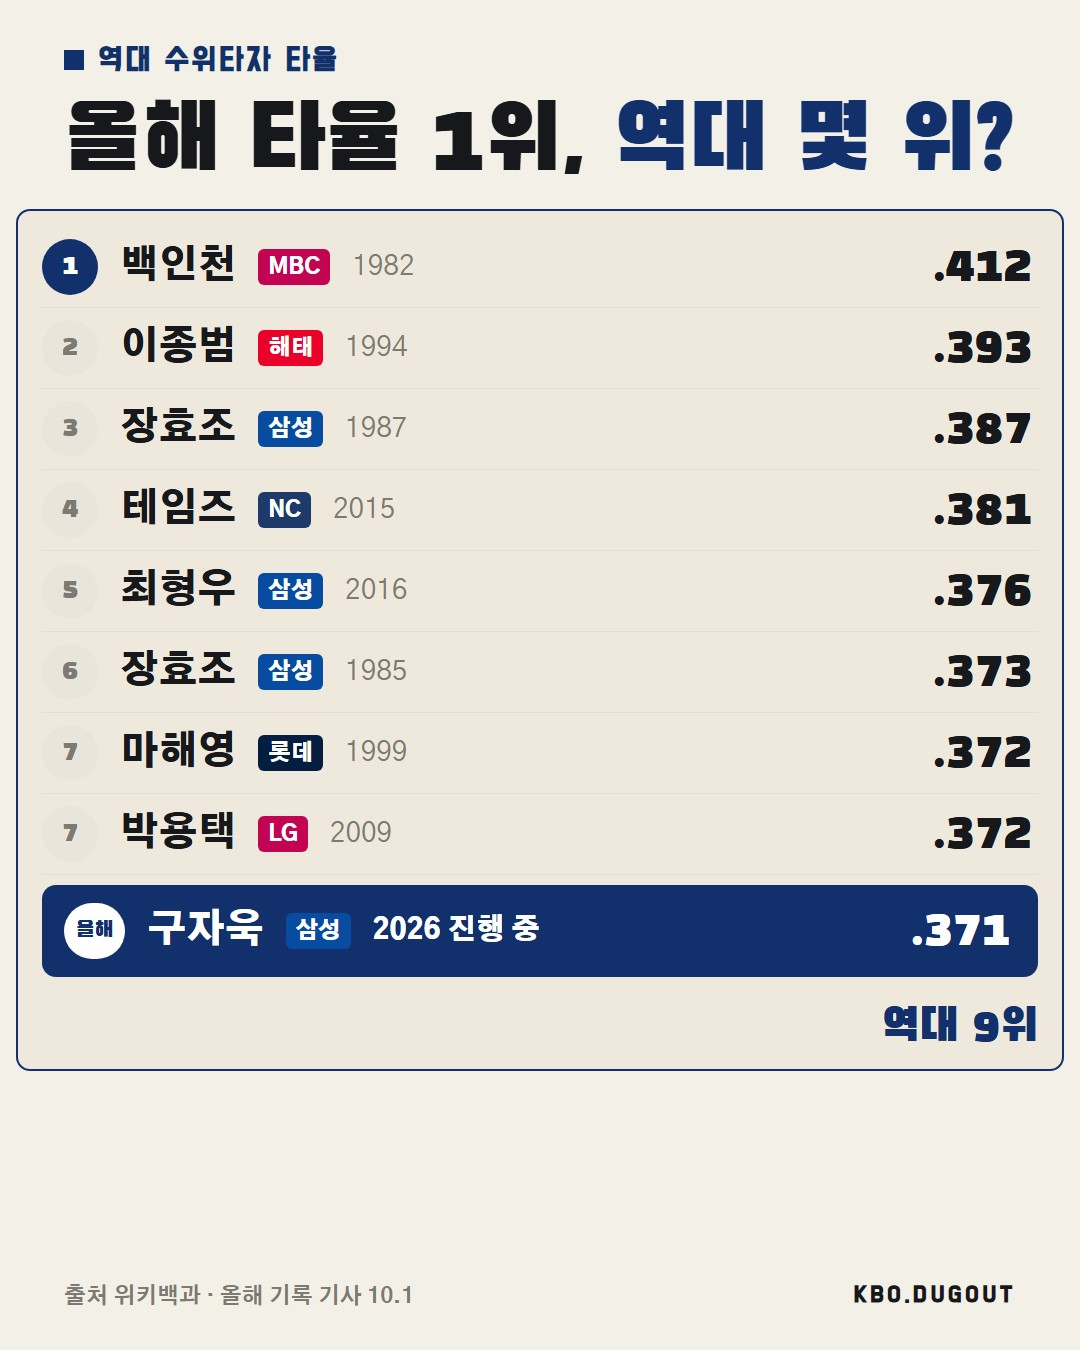
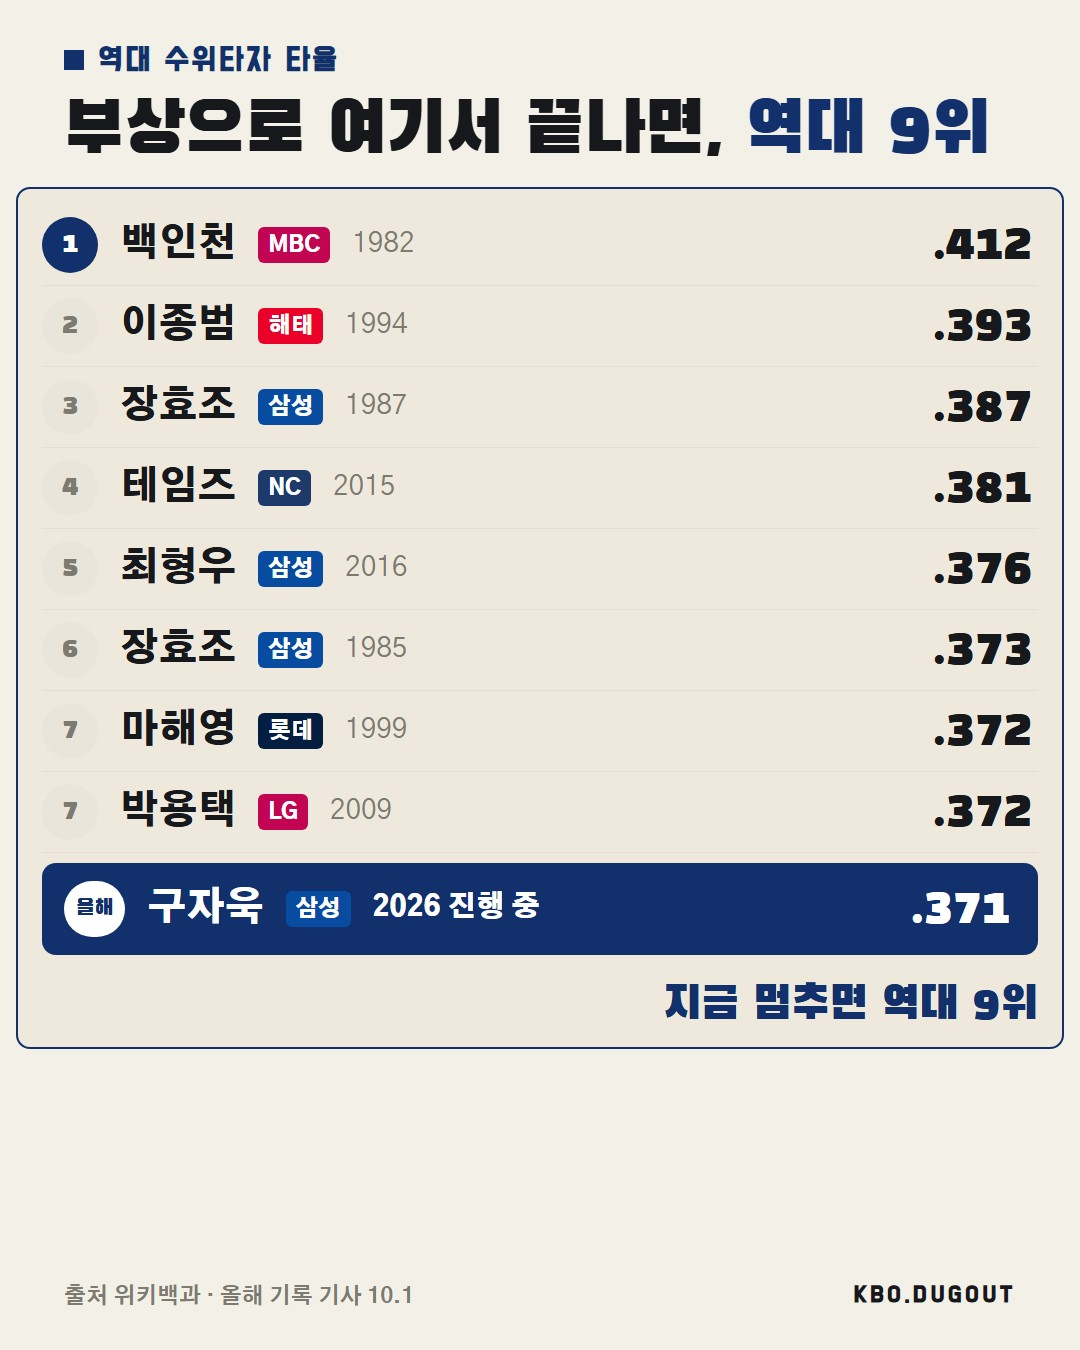
chore: publish review batch 2cb36d463b6d

Changed region(s): [[0.0306, 0.0622, 0.9778, 0.7778]]

diff --git a/review/2026-10-02-2cb36d463b6d.html b/review/2026-10-02-2cb36d463b6d.html
@@ -1,0 +1,29 @@
+<!doctype html>
+<html lang="ko">
+<head>
+  <meta charset="utf-8">
+  <meta name="viewport" content="width=device-width, initial-scale=1">
+  <title>콘텐츠 검토</title>
+  <style>
+    * { box-sizing: border-box; }
+    body { margin: 0; background: #f3efe4; color: #182126; font-family: sans-serif; }
+    main { width: min(100%, 720px); margin: auto; padding: 24px 16px 48px; }
+    article { margin: 0 0 32px; padding-bottom: 32px; border-bottom: 1px solid #aaa397; }
+    .carousel { display: grid; gap: 12px; }
+    img { display: block; width: 100%; max-width: 100%; height: auto; }
+    .meta { color: #5f625e; font-size: .85rem; }
+    .body { white-space: pre-wrap; line-height: 1.65; }
+    .qa { padding: 12px; background: #e5ded0; }
+  </style>
+</head>
+<body><main><h1>콘텐츠 검토</h1><article>
+  <p class="meta">Draft #109</p>
+  <div class="carousel">
+    <img src="../cards/draft-109-01.png" alt="Draft #109 카드 1">
+  </div>
+  <p class="body">구자욱 0.371, 지금 부상으로 정규시즌이 여기서 끝나버리면 그대로 역대 9위로 남는다는데, 다시 돌아오면 거기서 몇 위까지 더 올라갈 수 있을까
+
+출처: 위키백과 (위키백과 CC BY-SA) · 올해 기록 기사 10.1</p>
+  <p class="qa"><strong>QA</strong> 없음</p>
+</article></main></body>
+</html>
